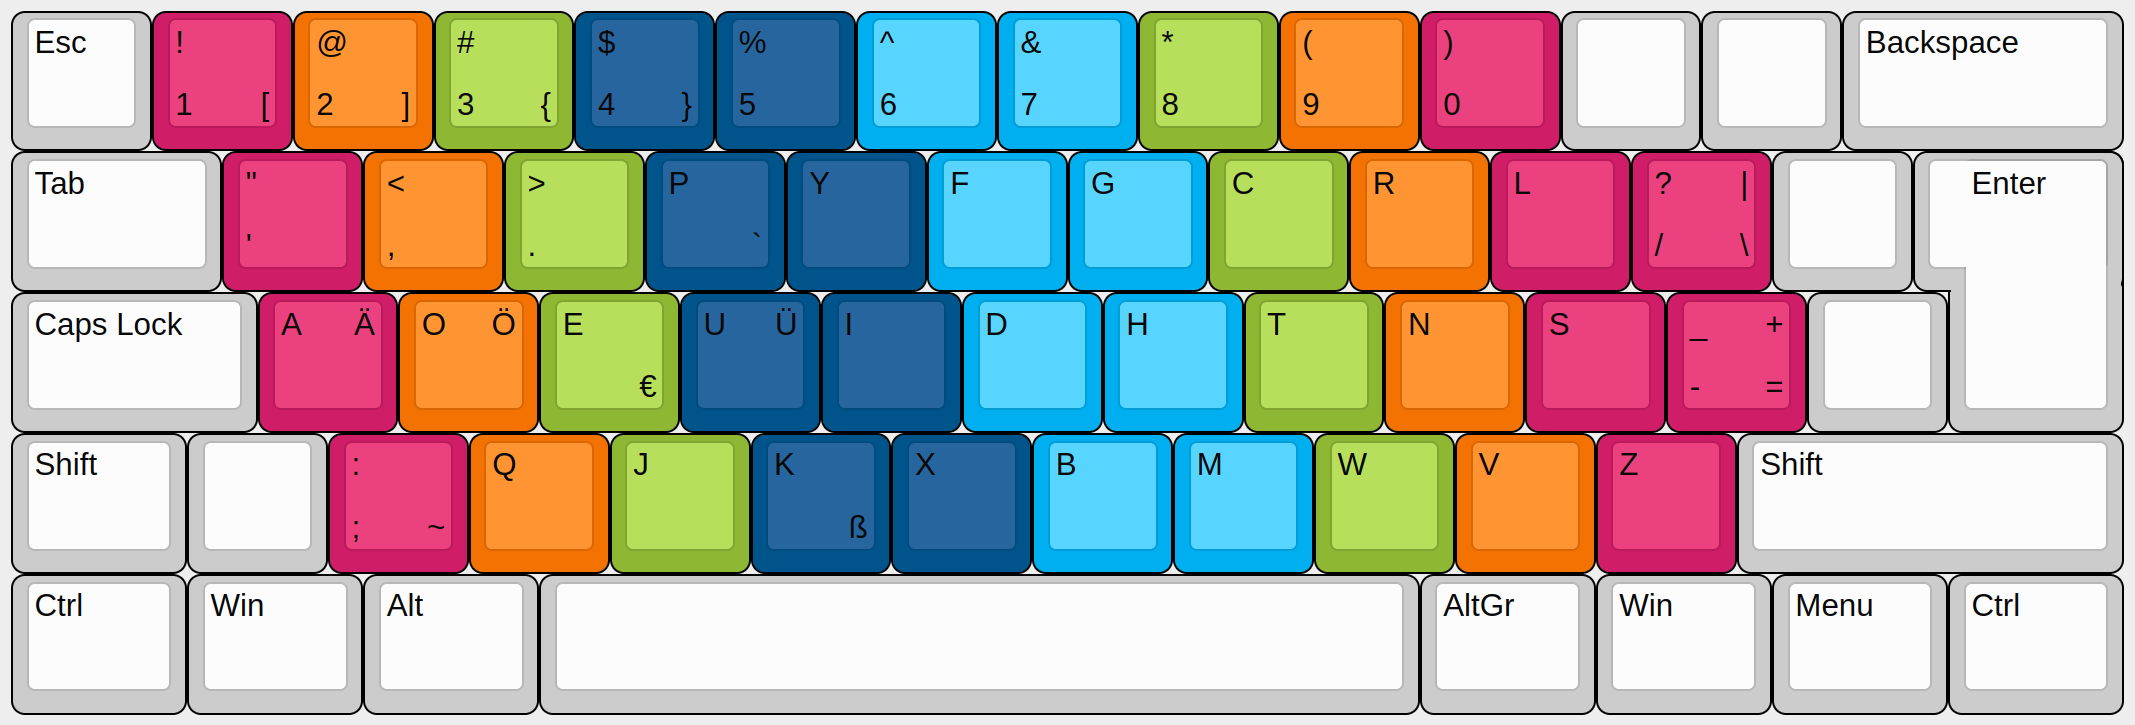
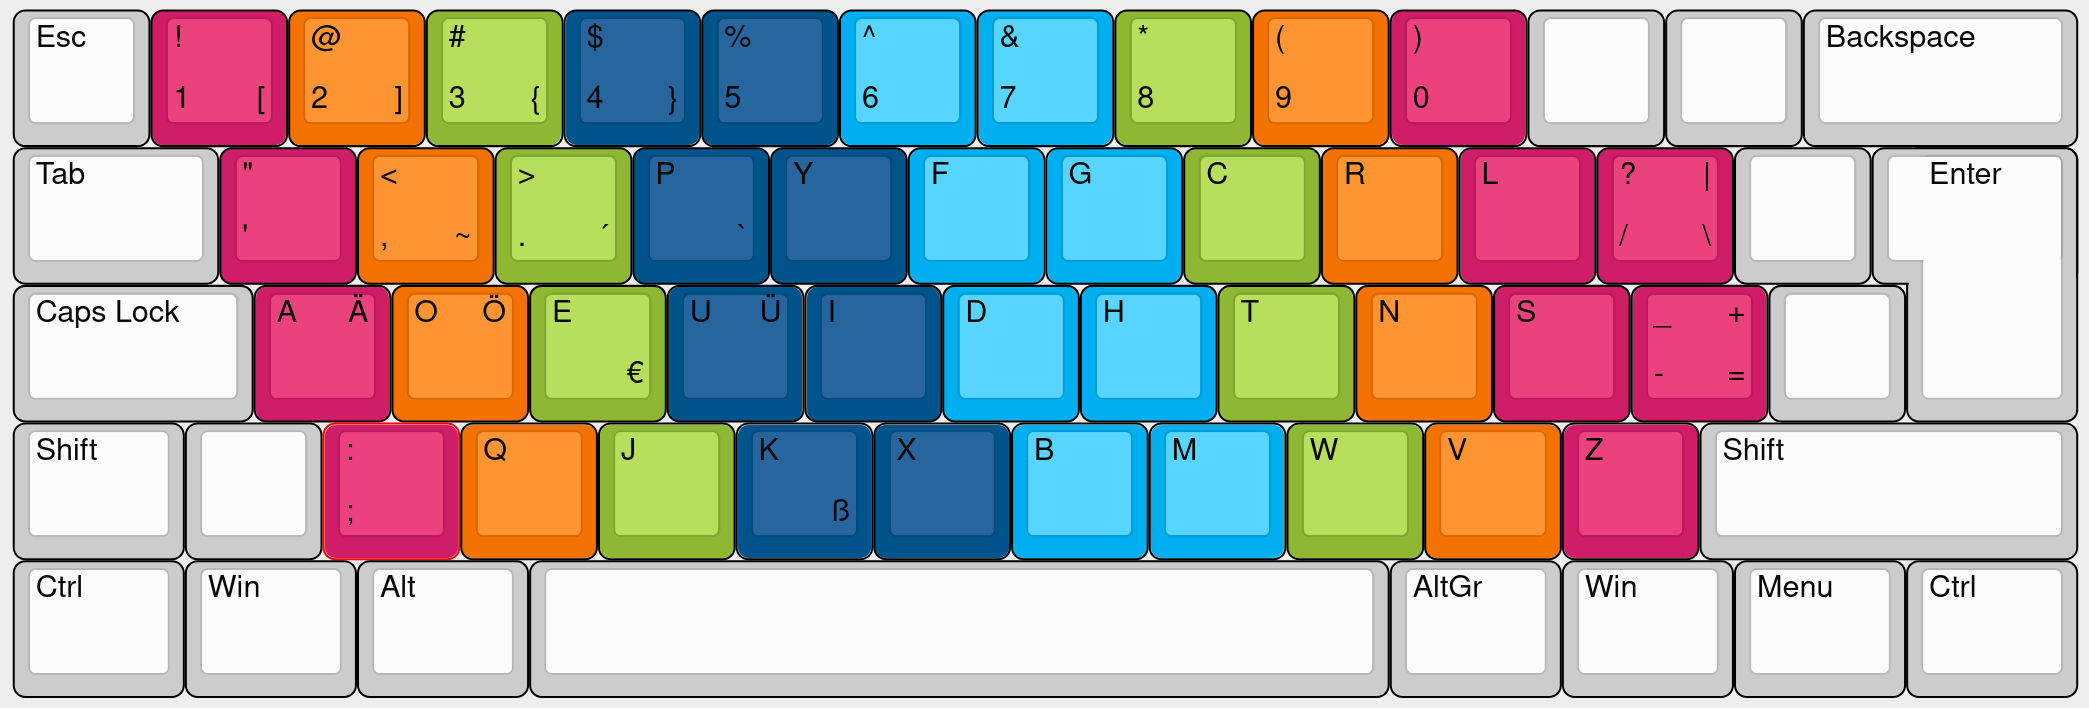
Update layout

diff --git a/README.md b/README.md
@@ -4,7 +4,7 @@ Dvorak keyboard layout with German and French character support
 
 ![Layout](https://github.com/xdlg/Dvorax/blob/master/layout.png)
 
-[Keyboard Layout Editor](http://www.keyboard-layout-editor.com/##@@=Esc&_c=%23cf1d67%3B&=!%0A1%0A%0A%5B&_c=%23f37201%3B&=%2F@%0A2%0A%0A%5D&_c=%238eb734%3B&=%23%0A3%0A%0A%7B&_c=%2300548c%3B&=$%0A4%0A%0A%7D&=%25%0A5&_c=%2300afef%3B&=%5E%0A6&=%2F&%0A7&_c=%238eb734%3B&=*%0A8&_c=%23f37201%3B&=(%0A9&_c=%23cf1d67%3B&=)%0A0&_c=%23cccccc&a:7%3B&=&=&_a:4&w:2%3B&=Backspace%3B&@_w:1.5%3B&=Tab&_c=%23cf1d67%3B&=%22%0A'&_c=%23f37201%3B&=%3C%0A,&_c=%238eb734%3B&=%3E%0A.&_c=%2300548c%3B&=P%0A%0A%0A%60&=Y&_c=%2300afef%3B&=F&=G&_c=%238eb734%3B&=C&_c=%23f37201%3B&=R&_c=%23cf1d67%3B&=L&=%3F%0A%2F%2F%0A%7C%0A%5C&_c=%23cccccc&a:7%3B&=&_x:0.25&a:4&w:1.25&h:2&w2:1.5&h2:1&x2:-0.25%3B&=Enter%3B&@_w:1.75%3B&=Caps%20Lock&_c=%23cf1d67%3B&=A%0A%0A%C3%84&_c=%23f37201%3B&=O%0A%0A%C3%96&_c=%238eb734%3B&=E%0A%0A%0A%E2%82%AC&_c=%2300548c%3B&=U%0A%0A%C3%9C&=I&_c=%2300afef%3B&=D&=H&_c=%238eb734%3B&=T&_c=%23f37201%3B&=N&_c=%23cf1d67%3B&=S&=%2F_%0A-%0A+%0A%2F=&_c=%23cccccc&a:7%3B&=%3B&@_a:4&w:1.25%3B&=Shift&_a:7%3B&=&_c=%23cf1d67&a:4%3B&=%2F:%0A%2F%3B%0A%0A~&_c=%23f37201%3B&=Q&_c=%238eb734%3B&=J&_c=%2300548c%3B&=K%0A%0A%0A%C3%9F&=X&_c=%2300afef%3B&=B&=M&_c=%238eb734%3B&=W&_c=%23f37201%3B&=V&_c=%23cf1d67%3B&=Z&_c=%23cccccc&w:2.75%3B&=Shift%3B&@_w:1.25%3B&=Ctrl&_w:1.25%3B&=Win&_w:1.25%3B&=Alt&_a:7&w:6.25%3B&=&_a:4&w:1.25%3B&=AltGr&_w:1.25%3B&=Win&_w:1.25%3B&=Menu&_w:1.25%3B&=Ctrl)
+[Keyboard Layout Editor](http://www.keyboard-layout-editor.com/##@@=Esc&_c=%23cf1d67%3B&=!%0A1%0A%0A%5B&_c=%23f37201%3B&=%2F@%0A2%0A%0A%5D&_c=%238eb734%3B&=%23%0A3%0A%0A%7B&_c=%2300548c%3B&=$%0A4%0A%0A%7D&=%25%0A5&_c=%2300afef%3B&=%5E%0A6&=%2F&%0A7&_c=%238eb734%3B&=*%0A8&_c=%23f37201%3B&=(%0A9&_c=%23cf1d67%3B&=)%0A0&_c=%23cccccc&a:7%3B&=&=&_a:4&w:2%3B&=Backspace%3B&@_w:1.5%3B&=Tab&_c=%23cf1d67%3B&=%22%0A'&_c=%23f37201%3B&=%3C%0A,%0A%0A~&_c=%238eb734%3B&=%3E%0A.%0A%0A%C2%B4&_c=%2300548c%3B&=P%0A%0A%0A%60&=Y&_c=%2300afef%3B&=F&=G&_c=%238eb734%3B&=C&_c=%23f37201%3B&=R&_c=%23cf1d67%3B&=L&=%3F%0A%2F%2F%0A%7C%0A%5C&_c=%23cccccc&a:7%3B&=&_x:0.25&a:4&w:1.25&h:2&w2:1.5&h2:1&x2:-0.25%3B&=Enter%3B&@_w:1.75%3B&=Caps%20Lock&_c=%23cf1d67%3B&=A%0A%0A%C3%84&_c=%23f37201%3B&=O%0A%0A%C3%96&_c=%238eb734%3B&=E%0A%0A%0A%E2%82%AC&_c=%2300548c%3B&=U%0A%0A%C3%9C&=I&_c=%2300afef%3B&=D&=H&_c=%238eb734%3B&=T&_c=%23f37201%3B&=N&_c=%23cf1d67%3B&=S&=%2F_%0A-%0A+%0A%2F=&_c=%23cccccc&a:7%3B&=%3B&@_a:4&w:1.25%3B&=Shift&_a:7%3B&=&_c=%23cf1d67&a:4%3B&=%2F:%0A%2F%3B&_c=%23f37201%3B&=Q&_c=%238eb734%3B&=J&_c=%2300548c%3B&=K%0A%0A%0A%C3%9F&=X&_c=%2300afef%3B&=B&=M&_c=%238eb734%3B&=W&_c=%23f37201%3B&=V&_c=%23cf1d67%3B&=Z&_c=%23cccccc&w:2.75%3B&=Shift%3B&@_w:1.25%3B&=Ctrl&_w:1.25%3B&=Win&_w:1.25%3B&=Alt&_a:7&w:6.25%3B&=&_a:4&w:1.25%3B&=AltGr&_w:1.25%3B&=Win&_w:1.25%3B&=Menu&_w:1.25%3B&=Ctrl)
 
 ## Linux
 
@@ -23,7 +23,7 @@ I use Linux Mint so installation steps may vary on other distributions. I chose 
       <iso639Id>ger</iso639Id>
     </languageList>
   </configItem>
-  </layout>
+</layout>
 ```
 4. Log out and log back in.
 
